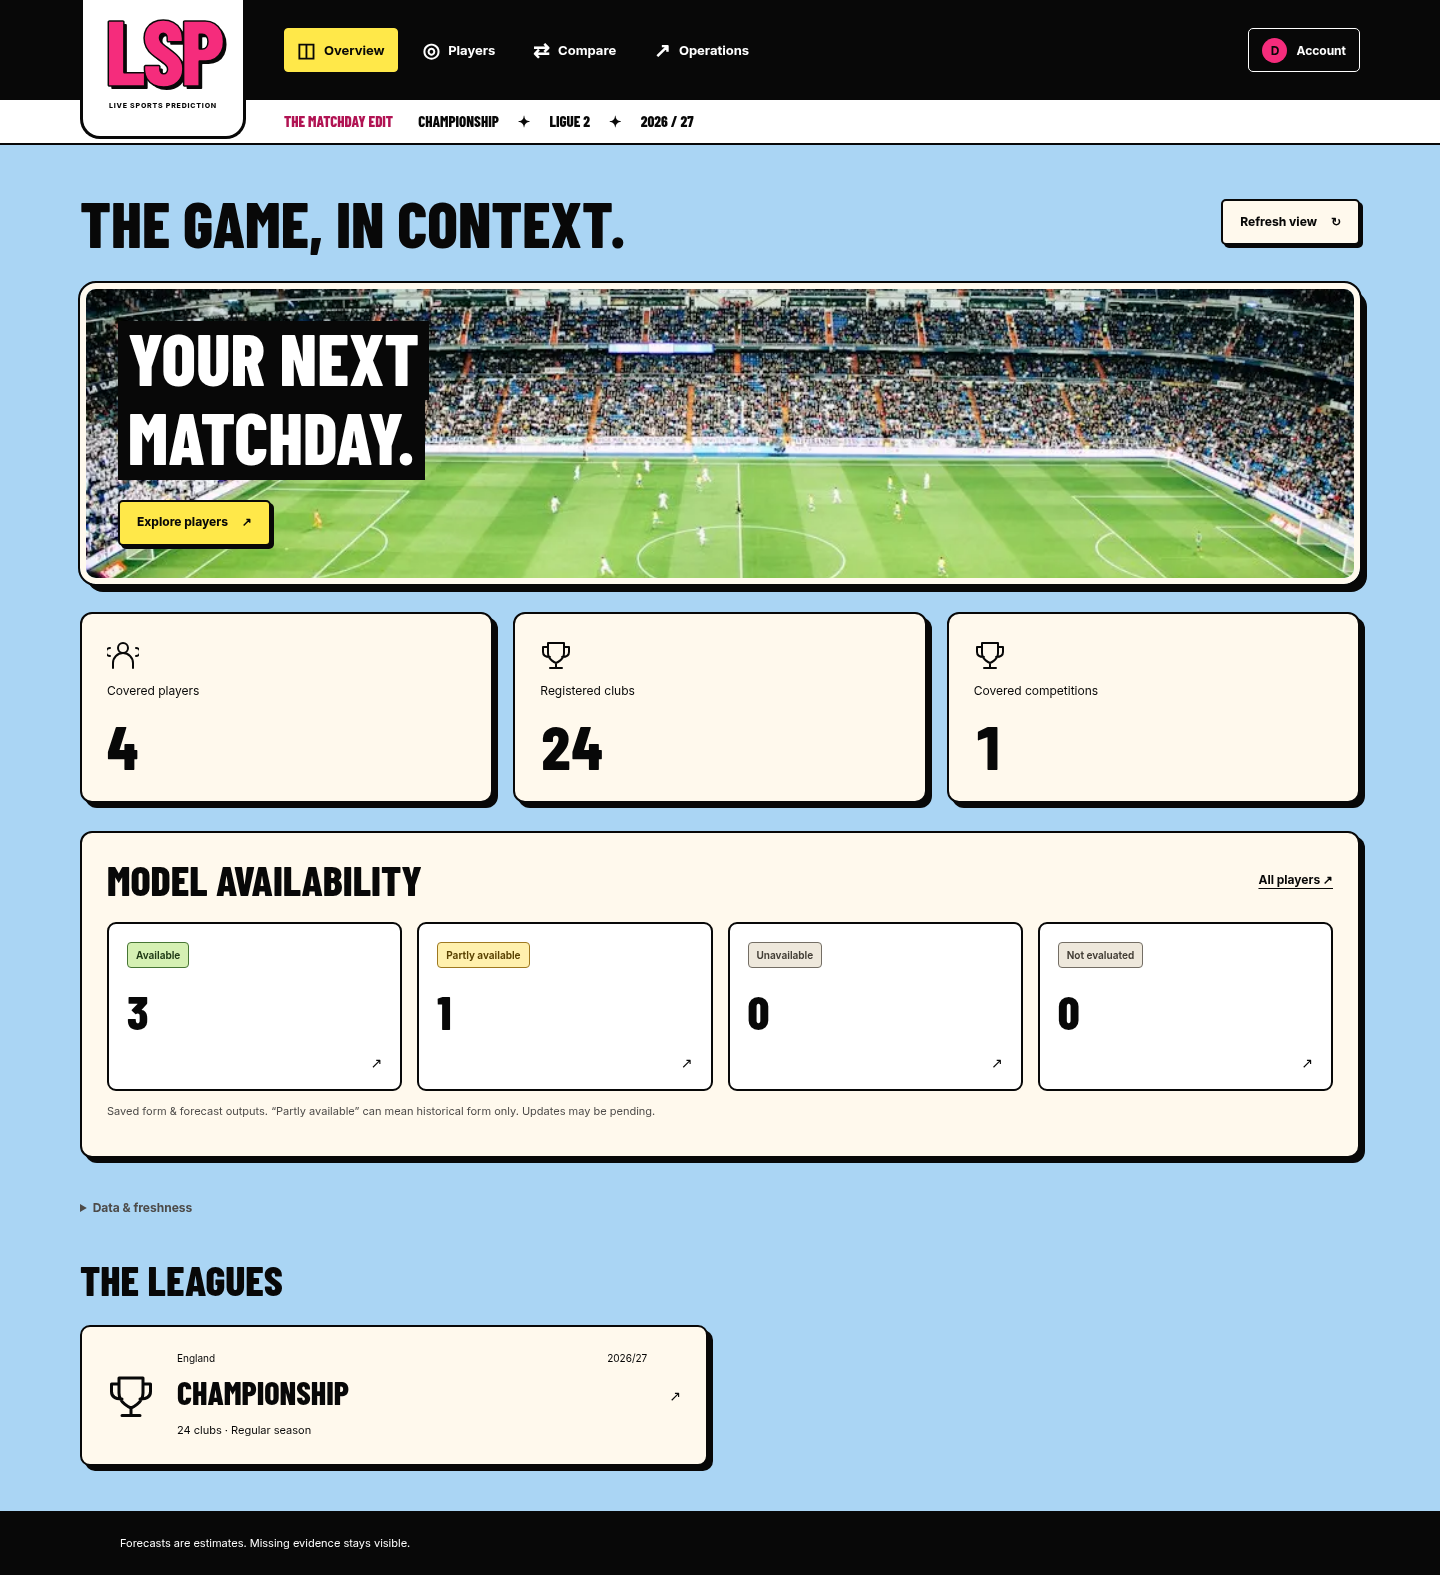
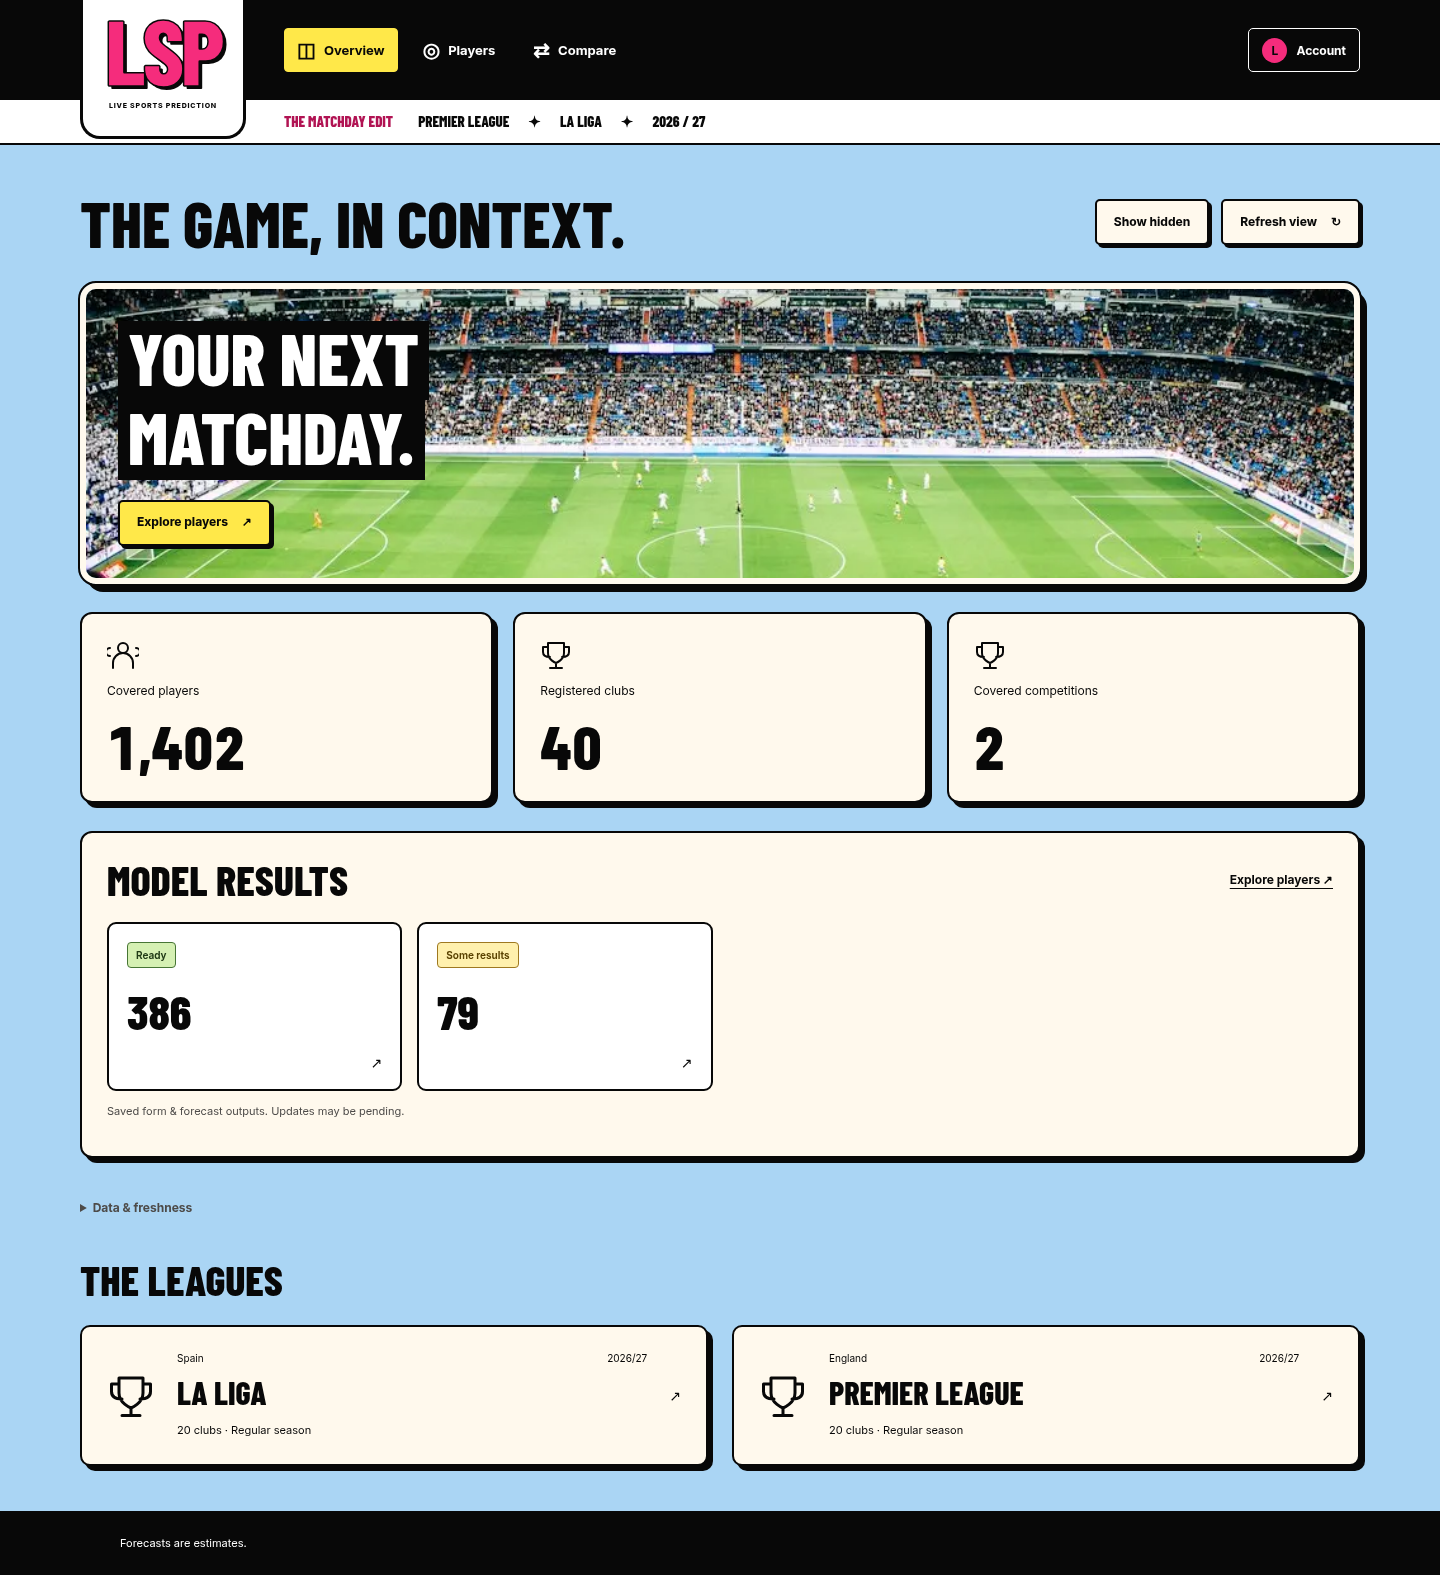
Refresh interface screenshots with verified live data

diff --git a/docs/requirements.md b/docs/requirements.md
@@ -131,25 +131,32 @@ verification never targeted the existing application databases.
 
 ## Screen evidence
 
-These archived interface examples were captured on **2026-11-10** using isolated
-synthetic demonstration data and example accounts. They show implemented screen
-behavior before the current-source/scouting/navigation changes, not current
-league coverage or measured forecast accuracy. Reproduce
-the journeys with the [UI test prerequisites](ingestion.md#isolated-integration-tests)
-and `npm run test:ui`, or sign in to an application configured through the
-[setup guide](../README.md).
+These live interface snapshots were captured on **2026-11-12**, between
+**12:12:16 and 12:12:27 UTC**, using imported Premier League and La Liga data.
+They include the current navigation, hidden-results filter and scouting statistic.
+Displayed values were checked against the exact API responses used by the browser;
+player and comparison arithmetic was independently recomputed from recorded inputs.
+Counts, worker state and forecasts can change after capture. Sign in to an
+application configured through the [setup guide](../README.md) to inspect current
+data. The [UI test prerequisites](ingestion.md#isolated-integration-tests) and
+`npm run test:ui` reproduce the journeys using isolated synthetic test data.
 
 | Screen | Example | What to inspect |
 | --- | --- | --- |
-| `/overview` | [Overview](screenshots/overview.png) | Stored evaluation/coverage counts and links into player discovery |
-| `/players/PLAYER_ID` | [Player detail](screenshots/player.png) | Separately labeled form/forecast, the exact selected five and output evidence |
-| `/compare` | [Comparison](screenshots/comparison.png) | Shared snapshot, aligned units and each player's availability |
-| `/admin` | [Administration](screenshots/administration.png) | Restricted status, queued operations, corrections and audit/recovery controls |
+| `/overview` | [Overview](screenshots/overview.png) | 1,402 players, 40 clubs, two leagues; 386 ready and 79 partial saved results |
+| `/players/PLAYER_ID` | [Player detail](screenshots/player.png) | Kylian Mbappé's observed best statistic, separate form/forecast and exact five-match window |
+| `/compare` | [Comparison](screenshots/comparison.png) | Mbappé and Lamine Yamal at one shared cutoff, observed ratings and populated outputs with aligned units |
+| `/admin` | [Administration](screenshots/administration.png) | Actual application budget, coverage, committed imports, job history and correction controls |
 
-The player example shows a saved August forecast with its stale-target warning;
-comparison recalculates at the current shared cutoff and shows missing-history
-reasons. A saved revision and a current comparison can therefore differ in
-availability. Neither screen substitutes missing evidence with invented values.
+The player screenshot shows a 7.98/10 forecast rating and 59.86/100 adjusted form
+index. Its observed best statistic is 12 shots on target across 443 minutes
+(2.44 per 90); its projected shots-on-target rate is separately shown as 2.17 per
+90 minutes. Comparison shows Yamal's 8.21/10 forecast and 61.56/100 form index,
+alongside both players' five observed match ratings. Mbappé's zero assists is an
+observed zero and remains a numeric zero in the projection. Administration was
+captured through reads only; no imports, retries, refresh jobs or corrections were
+submitted for these images. Missing history and genuine freshness warnings remain
+subject to the normal application rules; no output or image was fabricated.
 
 The offline database demo uses clearly labeled synthetic football data to make
 SQL/NoSQL behavior repeatable. The separate [real-data replay](replay.md) uses

diff --git a/README.md b/README.md
@@ -300,13 +300,15 @@ self-hosted through the application bundle.
 
 ## Interface examples
 
-Captured on 2026-11-10 from the implemented application using isolated synthetic
-data and example accounts. These show interface behavior, not live coverage or
-measured accuracy. Photography is illustrative; the player artwork is generic.
+Captured on 2026-11-12 from the live application with imported Premier League and
+La Liga data. Displayed values were checked against each screen's API responses;
+player and comparison calculations were independently recomputed from their
+recorded inputs. These dated snapshots do not establish complete source coverage
+or predictive accuracy. Photography is illustrative; player artwork is generic.
 
-![Overview with synthetic coverage and model availability](docs/screenshots/overview.png)
+![Overview with current Premier League and La Liga coverage and model result counts](docs/screenshots/overview.png)
 
-![Synthetic player with separate form and forecast evidence](docs/screenshots/player.png)
+![Kylian Mbappé with observed best statistic, separate form and forecast, and five selected matches](docs/screenshots/player.png)
 
 [Comparison](docs/screenshots/comparison.png) ·
 [Administrator operations](docs/screenshots/administration.png).

diff --git a/docs/deployment.md b/docs/deployment.md
@@ -329,4 +329,6 @@ databases and never an application/shared database. The
 [requirement guide](requirements.md) maps these checks to executable artifacts.
 The [evaluation report](evaluation.md) records actual historical zero coverage
 and unavailable errors; neither a restore test nor a healthy deployment establishes
-predictive accuracy. The screenshots are labeled synthetic examples.
+predictive accuracy. The [screenshots](requirements.md#screen-evidence) are dated
+live-data snapshots; their displayed values were verified separately from these
+synthetic setup and restore checks.
